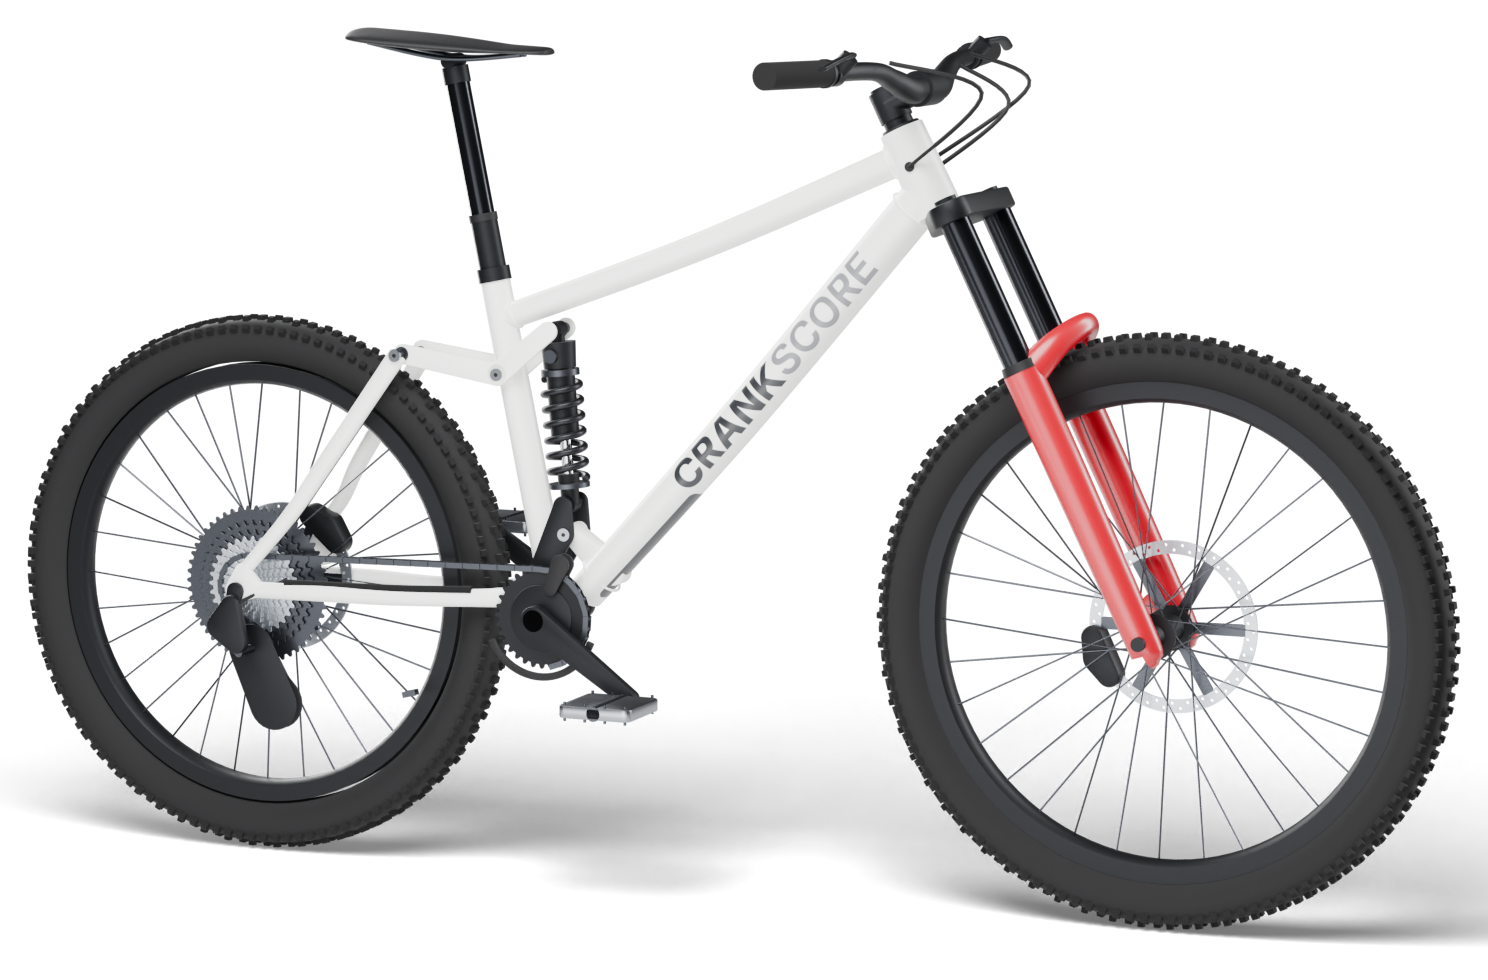
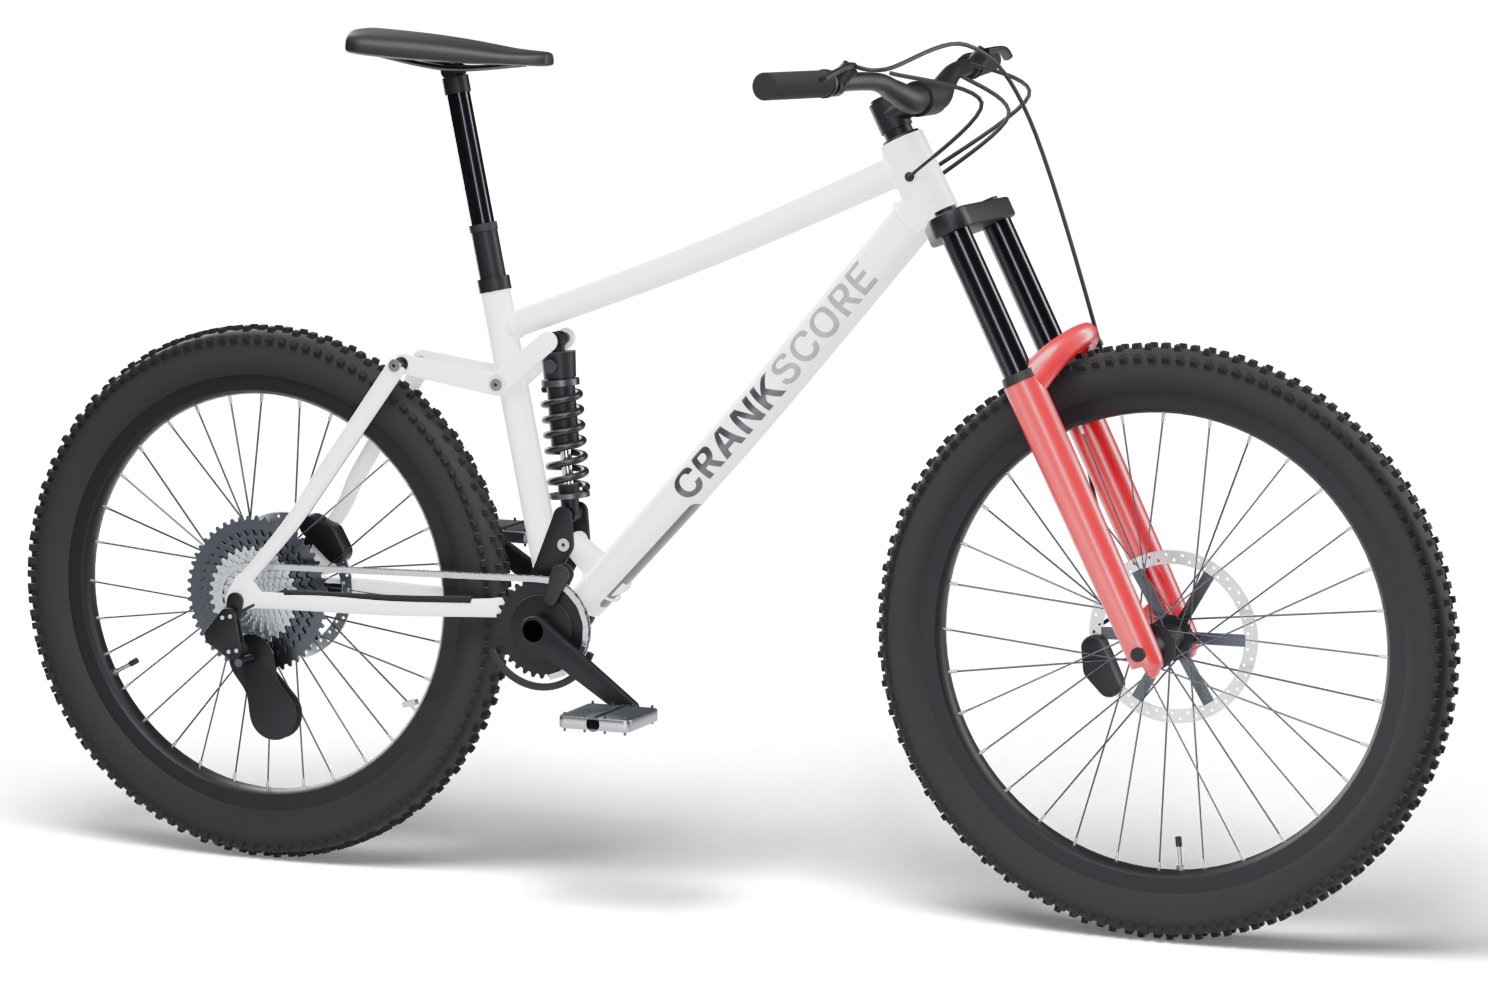
BEVEL-002 Abschnitt 10: neue Renderings und App-Bilder (Seitenansicht ohne Durchblick zwischen Felge und Reifen), Vorschaubild, Schattenkarte beim Schliessen freigeben, Tafel T10 und Belege
Claude-Session: https://claude.ai/code/session_019HPvxKMztWZfjozfE7Uzv9

diff --git a/index.html b/index.html
@@ -9163,7 +9163,7 @@ function glatt(pts, zu){
 /* Beispielrad als Bild: Seitenansicht eines 3D-Modells (Blender, Cycles) des Propain Spindrift 5 AL,
    Groesse L, Mullet -- Modell, Skripte und GLB liegen in 3d/ (siehe 3d/README.md). Es steht fuer
    kein ausgewaehltes Rad, deshalb die Unterschrift. klein: Rundgang-Karte. */
[2 lines of base64/hex data omitted]
 const beispielRad = klein => `<figure class="brad">
   <span class="brad-b" style="aspect-ratio:${RAD_BILD.b} / ${RAD_BILD.h}">
     <img class="brad-vor" src="${RAD_BILD.vor}" alt="" aria-hidden="true">

diff --git a/CrankScore-Austausch/belege/APP-BEVEL-002/skripte/tafel.py b/CrankScore-Austausch/belege/APP-BEVEL-002/skripte/tafel.py
@@ -1,0 +1,54 @@
+"""Tafel T10 (Abschnitt 10): vorher/nachher der Renderings und Details.
+python tafel.py <alt-seite.png> <neu-seite.png> <alt-drei.png> <neu-drei.png> <detail1.png,...> <ziel.jpg>"""
+import sys
+from PIL import Image, ImageDraw, ImageFont
+
+alt_s, neu_s, alt_d, neu_d, details, ziel = sys.argv[1:7]
+v_alt, v_neu = (sys.argv[7], sys.argv[8]) if len(sys.argv) > 8 else (None, None)
+F = "/usr/share/fonts/truetype/dejavu/DejaVuSans.ttf"
+FB = "/usr/share/fonts/truetype/dejavu/DejaVuSans-Bold.ttf"
+kopf, klein = ImageFont.truetype(FB, 30), ImageFont.truetype(F, 22)
+HELL, DUNKEL, TINTE = (242, 240, 236), (22, 24, 27), (32, 34, 38)
+B = 900
+
+
+def auf(pfad, grund, b=B):
+    im = Image.open(pfad).convert("RGBA")
+    im = im.resize((b, round(im.height * b / im.width)), Image.LANCZOS)
+    g = Image.new("RGBA", im.size, grund + (255,))
+    g.alpha_composite(im)
+    return g.convert("RGB")
+
+
+reihen = [("Seitenansicht (Bild im Aufbau), heller Grund", auf(alt_s, HELL), auf(neu_s, HELL)),
+          ("Dreiviertelansicht, dunkler Grund", auf(alt_d, DUNKEL), auf(neu_d, DUNKEL))]
+if v_alt:
+    reihen.append(("3D-Betrachter in der App (Desktop, hell): Licht von oben und Bodenschatten", auf(v_alt, HELL), auf(v_neu, HELL)))
+det = [Image.open(p).convert("RGB") for p in details.split(",")]
+dh = 300
+det = [d.resize((round(d.width * dh / d.height), dh), Image.LANCZOS) for d in det]
+rand, titel_h = 30, 60
+breite = rand * 3 + B * 2
+hoehe = rand + titel_h + sum(r[1].height + titel_h for r in reihen) + titel_h + dh + rand * 2
+tafel = Image.new("RGB", (breite, hoehe), (255, 255, 255))
+z = ImageDraw.Draw(tafel)
+z.text((rand, rand), "T10 · 3D-Rad realistischer (BEVEL-002, Abschnitt 10) — links vorher (5727baf), rechts nachher", font=kopf, fill=TINTE)
+y = rand + titel_h
+for titel, a, n in reihen:
+    z.text((rand, y), titel + ":  vorher  |  nachher", font=klein, fill=TINTE)
+    y += 34
+    tafel.paste(a, (rand, y))
+    tafel.paste(n, (rand * 2 + B, y))
+    y += a.height + titel_h - 34
+z.text((rand, y), "Neu im Detail: Schaltwerk mit Gelenken und Käfig-Taille, Sattel mit Volumen, vordere Bremsleitung, Ventil und Nippel", font=klein, fill=TINTE)
+y += 34
+x = rand
+for d in det:
+    if x + d.width > breite - rand:
+        d = d.crop((0, 0, breite - rand - x, dh))
+    tafel.paste(d, (x, y))
+    x += d.width + 12
+    if x >= breite - rand:
+        break
+tafel.save(ziel, quality=86)
+print(ziel, tafel.size)

diff --git a/3d/README.md b/3d/README.md
@@ -39,15 +39,16 @@ offiziellen Bildern abgleichen; die Maße stammen aus den unten genannten Quelle
 
 | Datei | Inhalt | Größe |
 |---|---|---|
-| `modell/spindrift-5-al.blend` | bearbeitbare Szene (komprimiert, Schriftzug-Textur eingepackt): Sammlungen je Baugruppe, Studio, zwei Kameras, Animation | 1,7 MB |
-| `modell/spindrift-5-al.glb` | optimiertes GLB (Draco, Stufe 10) mit Schriftzug-Textur, Modul-Angaben als extras, ein Animations-Clip „Spindrift_Bewegung“ — lädt die App auf Tippen | 0,88 MB |
-| `bilder/rad-seite.png`, `bilder/rad-dreiviertel.png` | Renderings mit transparentem Grund und weichem Bodenschatten (Cycles, 128 Samples, entrauscht) | 1,4 und 1,1 MB |
+| `modell/spindrift-5-al.blend` | bearbeitbare Szene (komprimiert, Schriftzug-Textur eingepackt): Sammlungen je Baugruppe, Studio, zwei Kameras, Animation | 1,8 MB |
+| `modell/spindrift-5-al.glb` | optimiertes GLB (Draco, Stufe 10) mit Schriftzug-Textur, Modul-Angaben als extras, ein Animations-Clip „Spindrift_Bewegung“ — lädt die App auf Tippen | 0,93 MB |
+| `bilder/rad-seite.png`, `bilder/rad-dreiviertel.png` | Renderings mit transparentem Grund und weichem Bodenschatten (Cycles, 128 Samples, entrauscht; Fotostudio aus `aussehen.py`) | 1,4 und 1,1 MB |
 | `skripte/` | alles, was Modell, Renderings, GLB und Prüfung reproduzierbar erzeugt | |
 | `skripte/unterrohr-dekor.png` | Schriftzug-Textur des Unterrohrs (aus `dekor.py`) | 0,1 MB |
 | `skripte/lagersuche/` | die numerische Suche der Hinterbau-Drehpunkte (Belege, nicht nötig zum Bauen) | |
 | `pruefung/` | Prüfseite für das GLB mit three.js (Chromium) | |
 
-Ohne Draco wäre das GLB 5,0 MB groß. Das Modell hat rund 133 000 Dreiecke in 138 Objekten.
+Ohne Draco wäre das GLB 5,2 MB groß. Das Modell hat rund 159 000 Dreiecke in 149 Objekten
+(vor Abschnitt 10: 133 000 in 138; dazugekommen sind vor allem Sattel, Nippel, Ventile und die vordere Leitung).
 
 ## Maße
 
@@ -207,6 +208,7 @@ cd 3d/skripte
 python dekor.py unterrohr-dekor.png                    # Schriftzug-Textur (nur nach Änderungen nötig)
 python bau.py ../modell/spindrift-5-al.blend          # oder: blender -b -P bau.py -- ../modell/spindrift-5-al.blend
 python kollision.py                                    # Kollisionsprüfung (0/50/100 %)
+# (bau.py holt Materialfeinheiten und Studio-Licht aus aussehen.py)
 python render_final.py ../modell/spindrift-5-al.blend /tmp/roh 128 2000
 python nachbearbeitung.py /tmp/roh/roh-seite.png /tmp/roh/roh-dreiviertel.png /tmp/bilder
 python module_speichern.py ../modell/spindrift-5-al.blend   # Teile-Kategorien in die .blend
